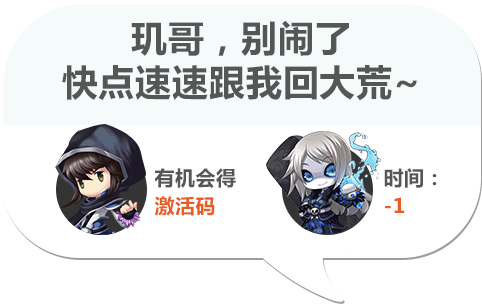
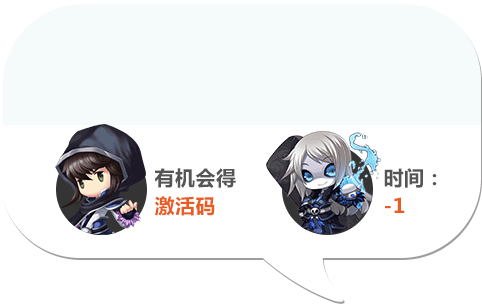
11
11

Changed region(s): [[0.1245, 0.0592, 0.8714, 0.3257], [0.6224, 0.5625, 0.6535, 0.5921], [0.249, 0.7105, 0.2801, 0.7401]]

diff --git a/tx/cocos2d/core/CCLoader.js b/tx/cocos2d/core/CCLoader.js
@@ -404,36 +404,46 @@ cc.LoaderScene = cc.Scene.extend(/** @lends cc.LoaderScene# */{
         cc.Scene.prototype.init.call(this);
 
         //logo
-        var logoWidth = 160;
-        var logoHeight = 200;
+        var logoWidth = 324;
+        var logoHeight = 324;
         var centerPos = cc.p(this._winSize.width / 2, this._winSize.height / 2);
 
-        // this._logoTexture = new Image();
+        this._logoTexture = new Image();
         var _this = this, handler;
-        // this._logoTexture.addEventListener("load", handler = function () {
-        //     _this._initStage(centerPos);
-        //     this.removeEventListener('load', handler, false);
-        // });
[1 lines of base64/hex data omitted]
-        // this._logoTexture.width = logoWidth;
-        // this._logoTexture.height = logoHeight;
+        this._logoTexture.addEventListener("load", handler = function () {
+            _this._initStage(centerPos);
+            this.removeEventListener('load', handler, false);
+        });
[1 lines of base64/hex data omitted]
+        this._logoTexture.width = logoWidth;
+        this._logoTexture.height = logoHeight;
 
         // bg
-        this._bgLayer = cc.LayerColor.create(cc.c4(32, 32, 32, 255));
+        this._bgLayer = cc.LayerColor.create(cc.c4(255, 255, 255, 255));
         this._bgLayer.setPosition(0, 0);
         this.addChild(this._bgLayer, 0);
 
+        var labelLeft = cc.LabelTTF.create("__", "Arial", 66);
+        labelLeft.setColor(cc.c3(0, 113, 200));
+        labelLeft.setPosition(cc.pAdd(centerPos, cc.p(-138, -logoHeight / 2 - 70 + 33)));
+        this._bgLayer.addChild(labelLeft, 10);
+
+        var labelRight = cc.LabelTTF.create("__", "Arial", 66);
+        labelRight.setColor(cc.c3(0, 113, 200));
+        labelRight.setPosition(cc.pAdd(centerPos, cc.p(138, -logoHeight / 2 - 70 + 33)));
+        this._bgLayer.addChild(labelRight, 10);
+
         //loading percent
-        this._label = cc.LabelTTF.create("Loading... 0%", "Arial", 14);
-        this._label.setColor(cc.c3(180, 180, 180));
-        this._label.setPosition(cc.pAdd(centerPos, cc.p(0, -logoHeight / 2 - 10)));
+        this._label = cc.LabelTTF.create("0%", "Arial", 66);
+        this._label.setColor(cc.c3(0, 113, 200));
+        this._label.setPosition(cc.pAdd(centerPos, cc.p(0, -logoHeight / 2 - 70)));
         this._bgLayer.addChild(this._label, 10);
     },
 
     _initStage: function (centerPos) {
         this._texture2d = new cc.Texture2D();
-        // this._texture2d.initWithElement(this._logoTexture);
-        // this._texture2d.handleLoadedTexture();
+        this._texture2d.initWithElement(this._logoTexture);
+        this._texture2d.handleLoadedTexture();
         this._logo = cc.Sprite.createWithTexture(this._texture2d);
         this._logo.setScale(cc.CONTENT_SCALE_FACTOR());
         this._logo.setPosition(centerPos);
@@ -447,7 +457,7 @@ cc.LoaderScene = cc.Scene.extend(/** @lends cc.LoaderScene# */{
 
     onExit: function () {
         cc.Node.prototype.onExit.call(this);
-        var tmpStr = "Loading... 0%";
+        var tmpStr = "0%";
         this._label.setString(tmpStr);
     },
 
@@ -471,7 +481,7 @@ cc.LoaderScene = cc.Scene.extend(/** @lends cc.LoaderScene# */{
 
     _updatePercent: function () {
         var percent = cc.Loader.getInstance().getPercentage();
-        var tmpStr = "Loading... " + percent + "%";
+        var tmpStr = percent + "%";
         this._label.setString(tmpStr);
 
         if (percent >= 100)

diff --git a/tx/src/myApp.js b/tx/src/myApp.js
@@ -239,16 +239,23 @@ var MoleLayer = cc.Layer.extend({
             var action3 = cc.Hide.create();
             var action4 = cc.CallFunc.create(this.startGame, this);
             this.readyLayer.goSprite.runAction(cc.Sequence.create(action1, action2, action3, action4));
-        }
+        };
+
+        var showReady = function () {
+            this.readyLayer.tipTxt.setVisible(false);
+            this.readyLayer.readySprite.setVisible(true);
+            var action1 = cc.ScaleTo.create(0.3, 1);
+            var action2 = cc.DelayTime.create(1);
+            var action3 = cc.ScaleTo.create(0.3, 0);
+            var action4 = cc.Hide.create();
+            var action5 = cc.CallFunc.create(showGo, this);
+            this.readyLayer.readySprite.runAction(cc.Sequence.create(action1, action2, action3, action4, action5));
+        };
 
         var action1 = cc.DelayTime.create(2);
-        var action2 = cc.Show.create();
-        var action3 = cc.ScaleTo.create(0.3, 1);
-        var action4 = cc.DelayTime.create(1);
-        var action5 = cc.ScaleTo.create(0.3, 0);
-        var action6 = cc.Hide.create();
-        var action7 = cc.CallFunc.create(showGo, this);
-        this.readyLayer.readySprite.runAction(cc.Sequence.create(action1, action2, action3, action4, action5, action6, action7));
+        var action2 = cc.FadeOut.create(0.3);
+        var action3 = cc.CallFunc.create(showReady, this);
+        this.readyLayer.tipTxt.runAction(cc.Sequence.create(action1, action2, action3));
 
         return true;
     },

diff --git a/tx/src/ready.js b/tx/src/ready.js
@@ -1,26 +1,33 @@
 var ReadyLayer = cc.Layer.extend({
+    tip1:null,
+    tip2:null,
+    tipTxt:null,
 	readySprite:null,
 	goSprite:null,
 
     init:function () {
         this._super();
 
-        var tip1 = cc.Sprite.create("res/main/tip1.png");
-        tip1.setPosition(320, 593);
-        this.addChild(tip1);
+        this.tip1 = cc.Sprite.create("res/main/tip1.png");
+        this.tip1.setPosition(320, 593);
+        this.addChild(this.tip1);
 
-        var tip2 = cc.Sprite.create("res/main/tip2.png");
-        tip2.setPosition(511, 313);
-        this.addChild(tip2);
+        this.tip2 = cc.Sprite.create("res/main/tip2.png");
+        this.tip2.setPosition(511, 313);
+        this.addChild(this.tip2);
+
+        this.tipTxt = cc.Sprite.create("res/main/tipTxt.png");
+        this.tipTxt.setPosition(320, 684);
+        this.addChild(this.tipTxt);
 
         this.readySprite = cc.Sprite.create("res/main/ready.png");
-        this.readySprite.setPosition(329, 653);
+        this.readySprite.setPosition(329, 680);
         this.readySprite.setVisible(false);
         this.readySprite.setScale(0);
         this.addChild(this.readySprite, 1);
 
         this.goSprite = cc.Sprite.create("res/main/go.png");
-        this.goSprite.setPosition(319, 667);
+        this.goSprite.setPosition(319, 687);
         this.goSprite.setVisible(false);
         this.addChild(this.goSprite, 2);
 
